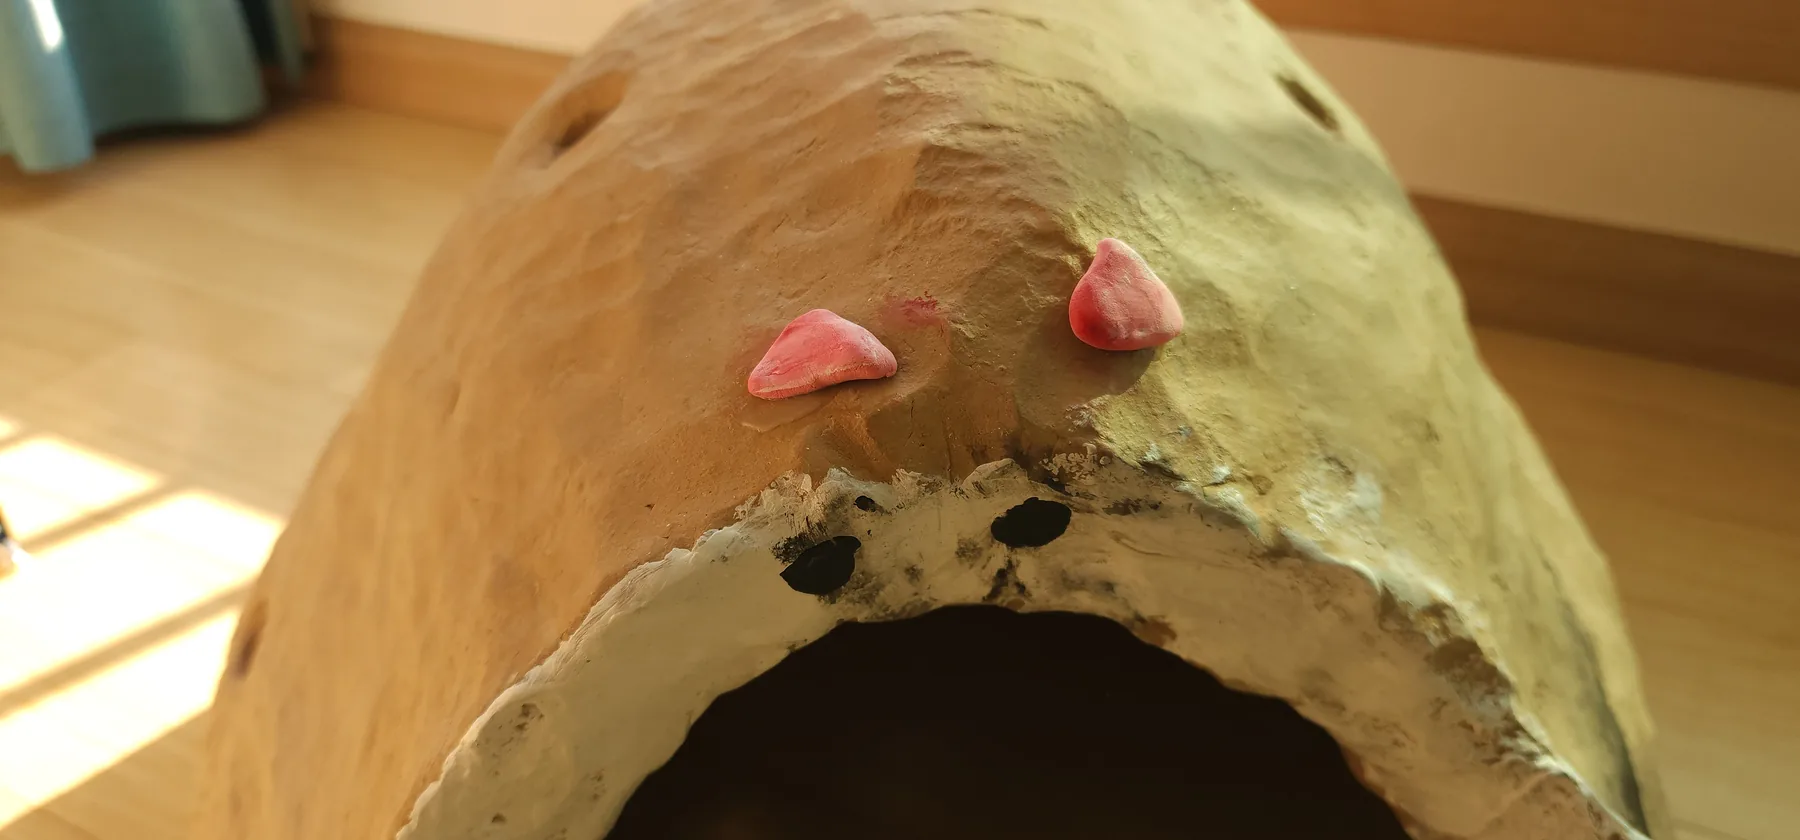
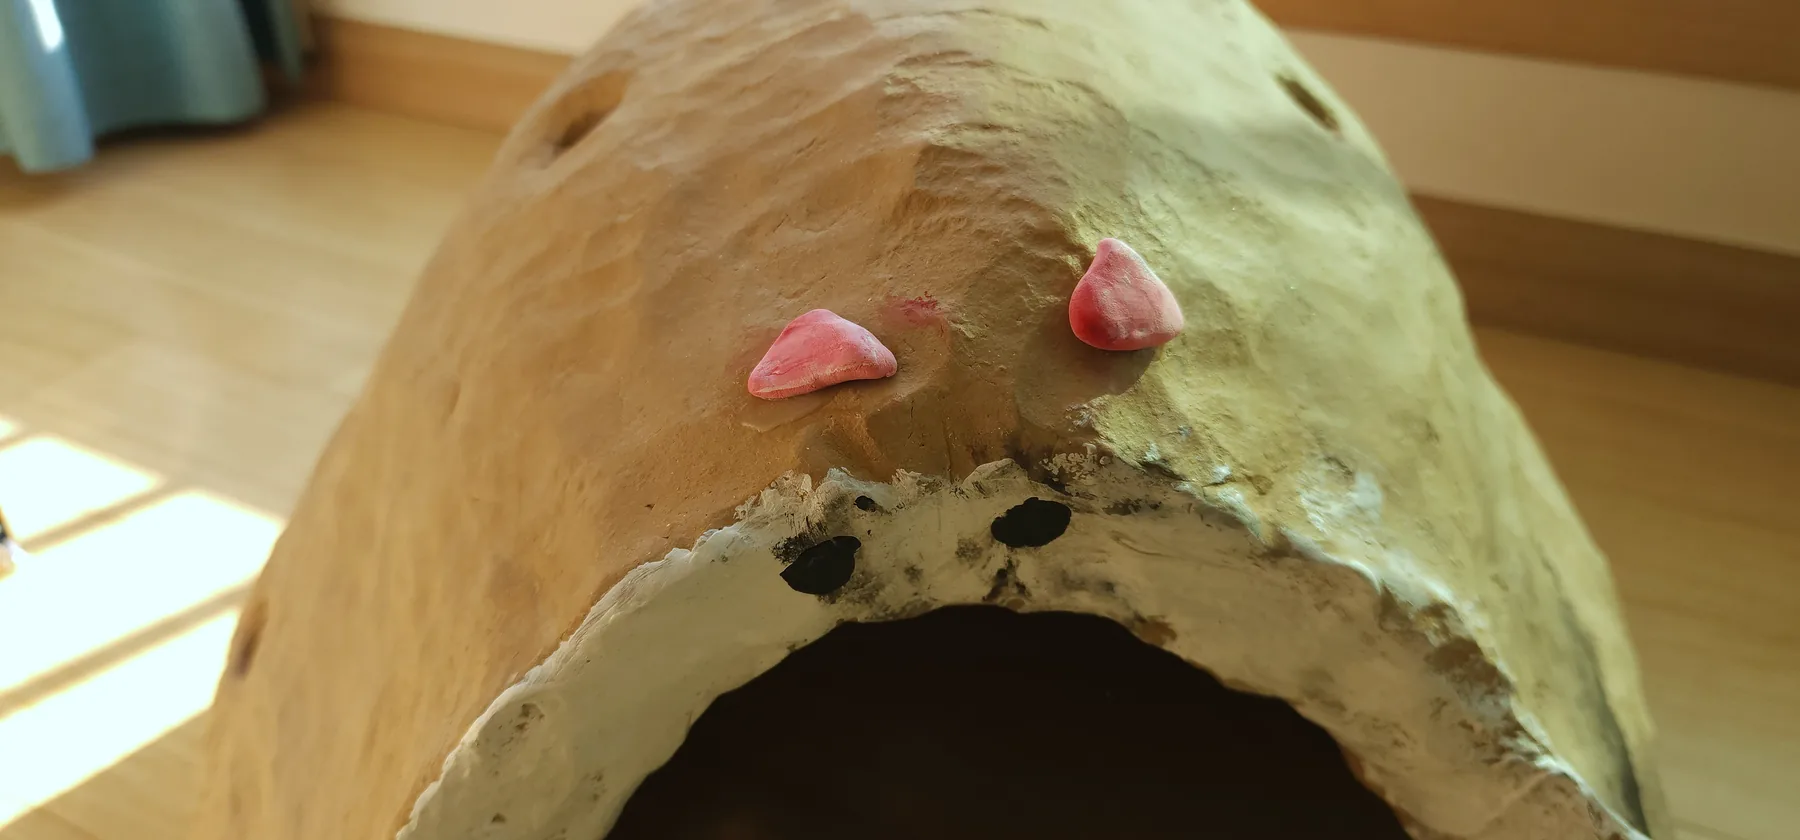
민지현 전시 전경: 2·3번 순서 바꿈, 치악산 원본 세로 사진 추가, 4번(분홍 귀 컷) 노란 기 덜어 냄
전시 전경 갤러리: 세로 사진·영상(portrait)은 칸 크기는 그대로 두고 그 안에 작게 통째로(양옆 검게) 보인다.

diff --git a/app/_content/artist-pages.js b/app/_content/artist-pages.js
@@ -41,13 +41,14 @@ const MIPPEUDA = { name: "미쁘다 갤러리카페", address: "원주시 미래
 const PRIVATE_SPACE = { name: "작가 개인 공간", address: "", period: "상설전시", hours: "초대 관람만 가능" };
 
 // 전시 전경 사진(public/artist-install/) — 큰 사진 1800×840, 썸네일 360×168
-function install(name, alt) {
-  return { src: `/artist-install/${name}.webp`, thumb: `/artist-install/${name}_thumb.webp`, alt };
+// portrait: 세로 사진·영상 — 자르지 않고 칸 안에 작게 통째로 보인다(칸 크기는 그대로, 양옆은 검게).
+// 세로 사진은 840×1800, 썸네일은 다른 것과 같은 360×168.
+function install(name, alt, { portrait = false } = {}) {
+  return { src: `/artist-install/${name}.webp`, thumb: `/artist-install/${name}_thumb.webp`, alt, ...(portrait ? { portrait } : {}) };
 }
 // 전시 전경 영상 — {name}.mp4(H.264), 포스터·썸네일은 {name}.webp / {name}_thumb.webp
-// portrait: 세로 영상 — 자르지 않고 세로 그대로 보인다(칸 높이를 화면에 맞춰 키움)
-function installVideo(name, alt, { portrait = false } = {}) {
-  return { ...install(name, alt), video: `/artist-install/${name}.mp4`, ...(portrait ? { portrait } : {}) };
+function installVideo(name, alt, options) {
+  return { ...install(name, alt, options), video: `/artist-install/${name}.mp4` };
 }
 // 브런치카페 뜰 — 박소연 페이지의 전시 전경(정면 컷이 먼저). 박진희는 근접 컷 + 본인 사진, 이안은 따로 고른 사진.
 // 문막성당 로비 4인 — 개인 컷 없이 공용 3장(왼쪽 창: 허양·이재홍, 오른쪽 창: 신정숙·임계화)
@@ -145,9 +146,10 @@ const details = {
       venue: PRIVATE_SPACE,
       installPhotos: [
         install("min-jihyeon-2", "산이 보이는 거실 창가 바닥에 놓인 〈명상〉"),
-        install("min-jihyeon-4", "창 너머 산을 등지고 놓인 〈명상〉과 작품 안내판"),
         install("min-jihyeon-3", "햇살 드는 마룻바닥 위 〈명상〉과 작품 안내판"),
+        install("min-jihyeon-4", "창 너머 산을 등지고 놓인 〈명상〉과 작품 안내판"),
         install("min-jihyeon-5", "가까이에서 본 〈명상〉의 머리 위 분홍빛 귀"),
+        install("min-jihyeon-8", "하늘과 치악산이 보이는 창가의 〈명상〉과 작품 안내판", { portrait: true }),
         install("min-jihyeon-7", "창살 너머 치악산이 보이는 창가의 〈명상〉과 작품 안내판"),
         installVideo("min-jihyeon-video", "〈명상〉에 머리를 넣고 누워 쉬는 민지현", { portrait: true }),
       ],

diff --git a/app/_components/artist-install-gallery.js b/app/_components/artist-install-gallery.js
@@ -7,7 +7,7 @@ import { MEDIA_PLAY, MEDIA_STOP } from "./artist-bgm-player";
 // 전시 전경 — 큰 사진 한 장과 그 아래 썸네일. 썸네일을 누르면 큰 사진이 바뀐다.
 // 큰 사진은 지금 보이는 한 장만 불러오고, 나머지는 누를 때 불러온다.
 // 항목에 video가 있으면 영상으로 보여 준다(src는 포스터). 영상은 재생을 누르기 전까지 받지 않는다.
-// 세로 영상(portrait)은 자르지 않고 세로 그대로 보인다 — 그때만 칸이 화면 높이에 맞춰 커진다.
+// 세로 사진·영상(portrait)은 자르지 않고 칸 안에 작게 통째로 보인다(칸 크기는 그대로).
 // 영상은 현장 소리와 함께 재생하고, 재생하는 동안 배경음악은 잠시 멈춘다(MEDIA_PLAY/STOP 이벤트).
 export default function ArtistInstallGallery({ photos }) {
   const [index, setIndex] = useState(0);
@@ -22,7 +22,7 @@ export default function ArtistInstallGallery({ photos }) {
   }, [isVideo, current.video]);
 
   return (
-    <div className={["xp-install-gallery", isVideo ? "is-video" : "", isVideo && current.portrait ? "is-portrait" : ""].filter(Boolean).join(" ")}>
+    <div className={["xp-install-gallery", isVideo ? "is-video" : "", current.portrait ? "is-portrait" : ""].filter(Boolean).join(" ")}>
       <div className="xp-install">
         {isVideo ? (
           <video
@@ -41,7 +41,7 @@ export default function ArtistInstallGallery({ photos }) {
             onEnded={() => window.dispatchEvent(new Event(MEDIA_STOP))}
           />
         ) : (
-          <img src={current.src} alt={current.alt} width="1800" height="840" />
+          <img src={current.src} alt={current.alt} width={current.portrait ? 840 : 1800} height={current.portrait ? 1800 : 840} />
         )}
       </div>
       {photos.length > 1 ? (

diff --git a/app/_components/artist-profile-page.js b/app/_components/artist-profile-page.js
@@ -89,9 +89,9 @@ const CSS = `
   .xp-install { aspect-ratio:2/1; background:var(--xp-soft); }
   .xp-install-gallery .xp-install { aspect-ratio:15/7; overflow:hidden; }
   .xp-install img, .xp-install video { display:block; width:100%; height:100%; object-fit:cover; background:#000; }
-  /* 세로 영상은 자르지 않는다 — 칸을 화면 높이에 맞춰 키우고 영상 양옆은 검게 둔다 */
-  .xp-install-gallery.is-portrait .xp-install { aspect-ratio:auto; height:min(80vh, 760px); background:#000; }
-  .xp-install-gallery.is-portrait .xp-install video { object-fit:contain; }
+  /* 세로 사진·영상은 자르지 않는다 — 칸 크기는 그대로 두고 그 안에 작게 통째로, 양옆은 검게 */
+  .xp-install-gallery.is-portrait .xp-install { background:#000; }
+  .xp-install-gallery.is-portrait .xp-install img, .xp-install-gallery.is-portrait .xp-install video { object-fit:contain; }
   /* 썸네일은 큰 사진 안 오른쪽 아래에 작게 얹는다. 개수가 많으면 폭에 맞춰 줄어든다. */
   .xp-install-gallery { position:relative; }
   .xp-install-thumbs { position:absolute; left:8px; right:8px; bottom:8px; display:flex; justify-content:flex-end; gap:5px; pointer-events:none; }
